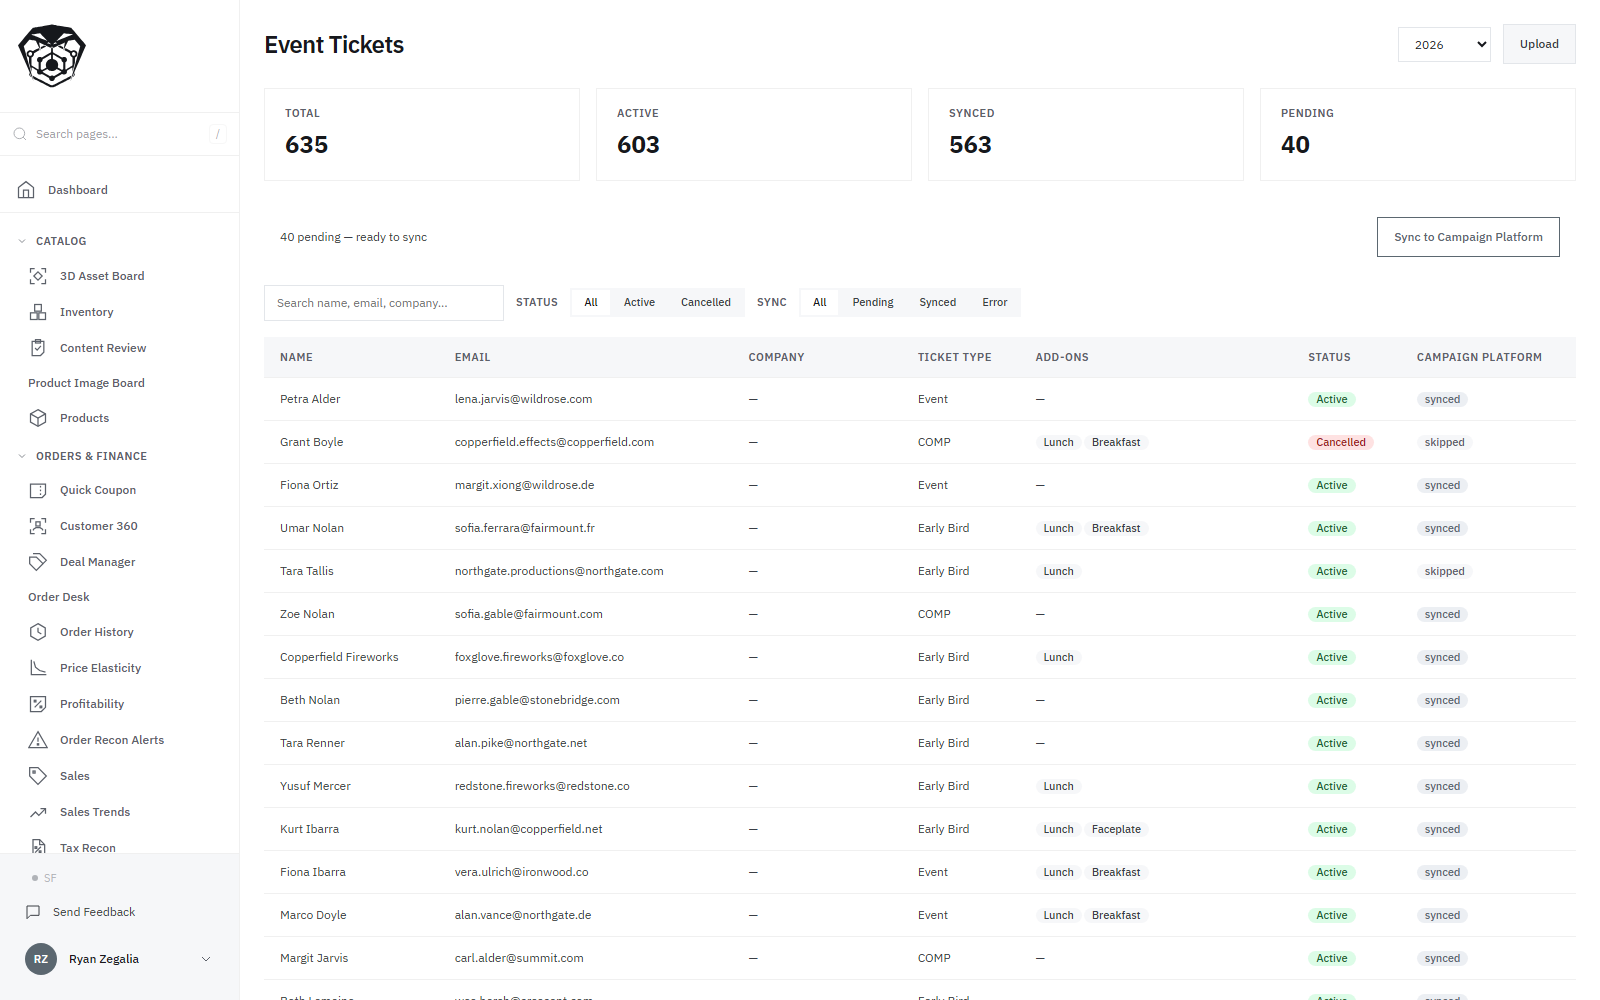
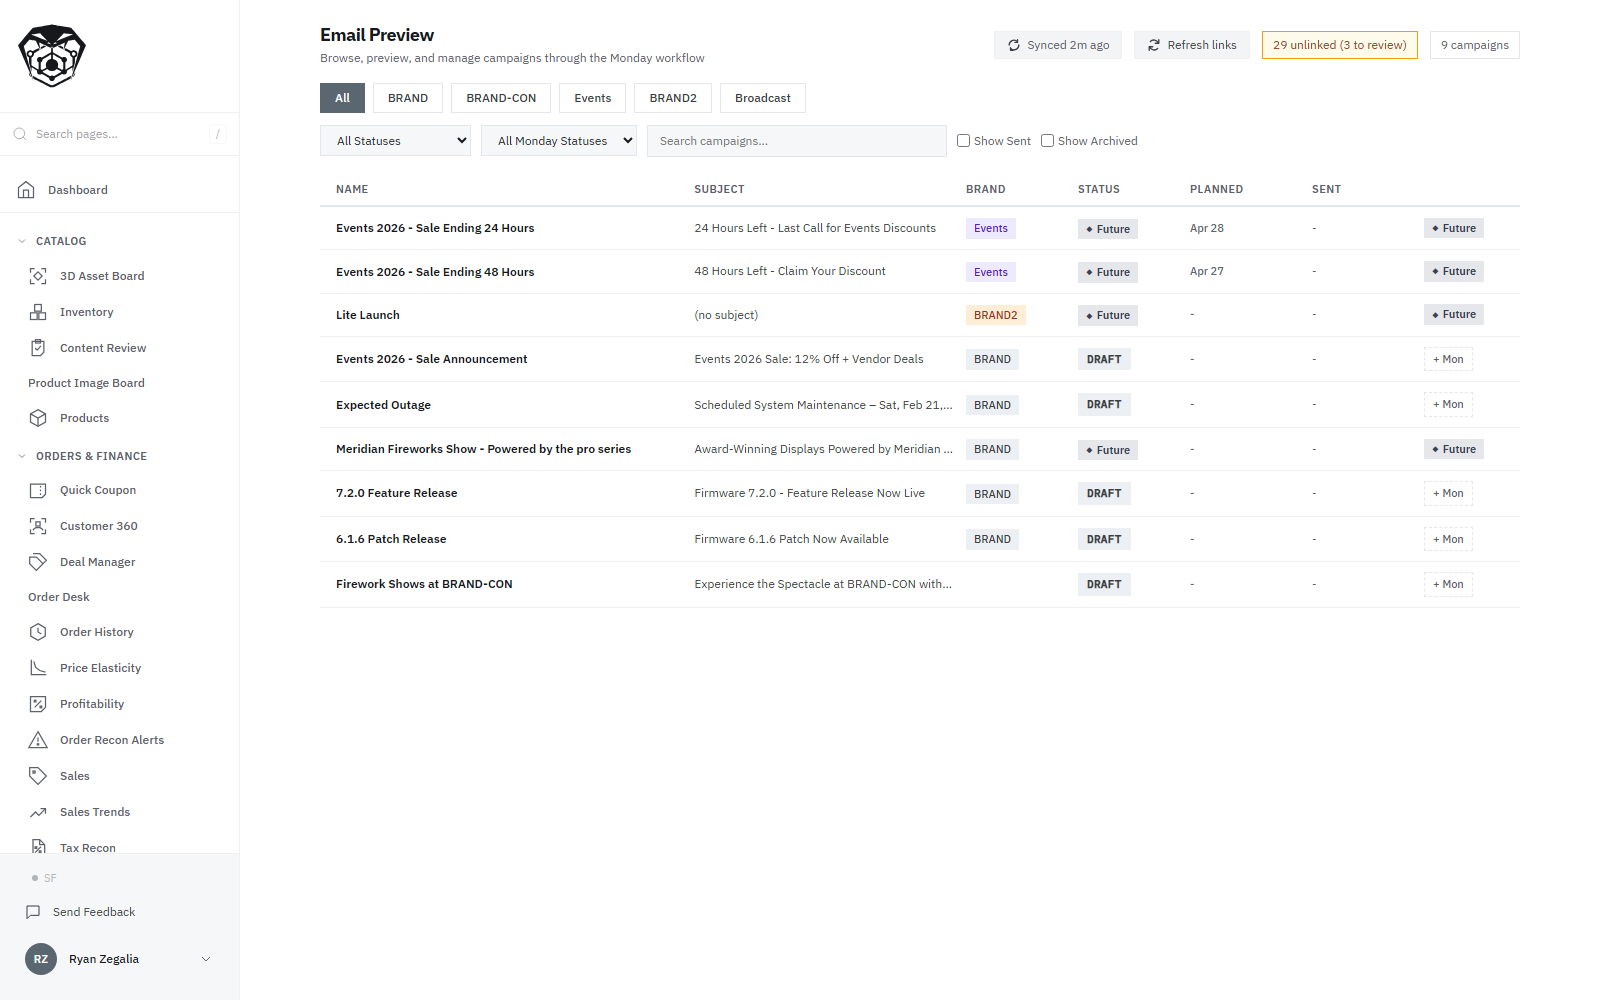
map: marketing-sync card gets the email board, not the ticket board
Ryan's review: the card is email and marketing infrastructure, so the shot
should be the campaign board across the brands. Fresh capture (p10) with
three scrub fixes it forced: brand-prefix strips no longer leave dangling
separators (spaced-separator rule only, hostnames untouched), a show
partner's name is substituted, and 'COBRA Series' renames as a phrase.
Alt/caption rewritten from the run that produced the PNG.

diff --git a/portfolio/templates/platform_map.html b/portfolio/templates/platform_map.html
@@ -140,8 +140,8 @@
     <div class="map-node-body">
     <p class="node-what">Two services I built to pull the marketing side of the business into the platform: email campaigns, and trade show attendees.</p>
     <figure class="node-shot">
-      <img src="/static/img/systems/marketing-sync.png?v=a0cd55f5af" alt="Trade show tickets arriving in the platform: 635 in total, 603 active, 563 already pushed to the email platform and 40 still waiting. Every attendee row carries their ticket type, the add-ons they bought, whether the ticket is still active, and its sync state." width="1600" height="1000" loading="lazy" decoding="async">
-      <figcaption>Attendee names, addresses and companies are substituted. Ticket types, add-ons and sync states are real, and the forty pending rows are what the next push sends.</figcaption>
+      <img src="/static/img/systems/marketing-sync.png?v=aa01ea3f57" alt="The email board: nine campaigns across four brands and a broadcast list, each row carrying its subject line, brand, send state and its link into the campaign tracker -- sale countdowns, a product launch, two firmware release notes, a maintenance notice and two show announcements. Across the top the board reports its last sync two minutes back and 29 campaigns not yet linked to the tracker, three of them flagged to review." width="1600" height="1000" loading="lazy" decoding="async">
+      <figcaption>Campaign and partner names are substituted and the brand labels are stand-ins. The subjects&#x27; shape, the statuses, the per-row tracker links and the 29-unlinked counter are what the board actually showed.</figcaption>
     </figure>
     <div class="node-detail">
     <div class="node-block">
